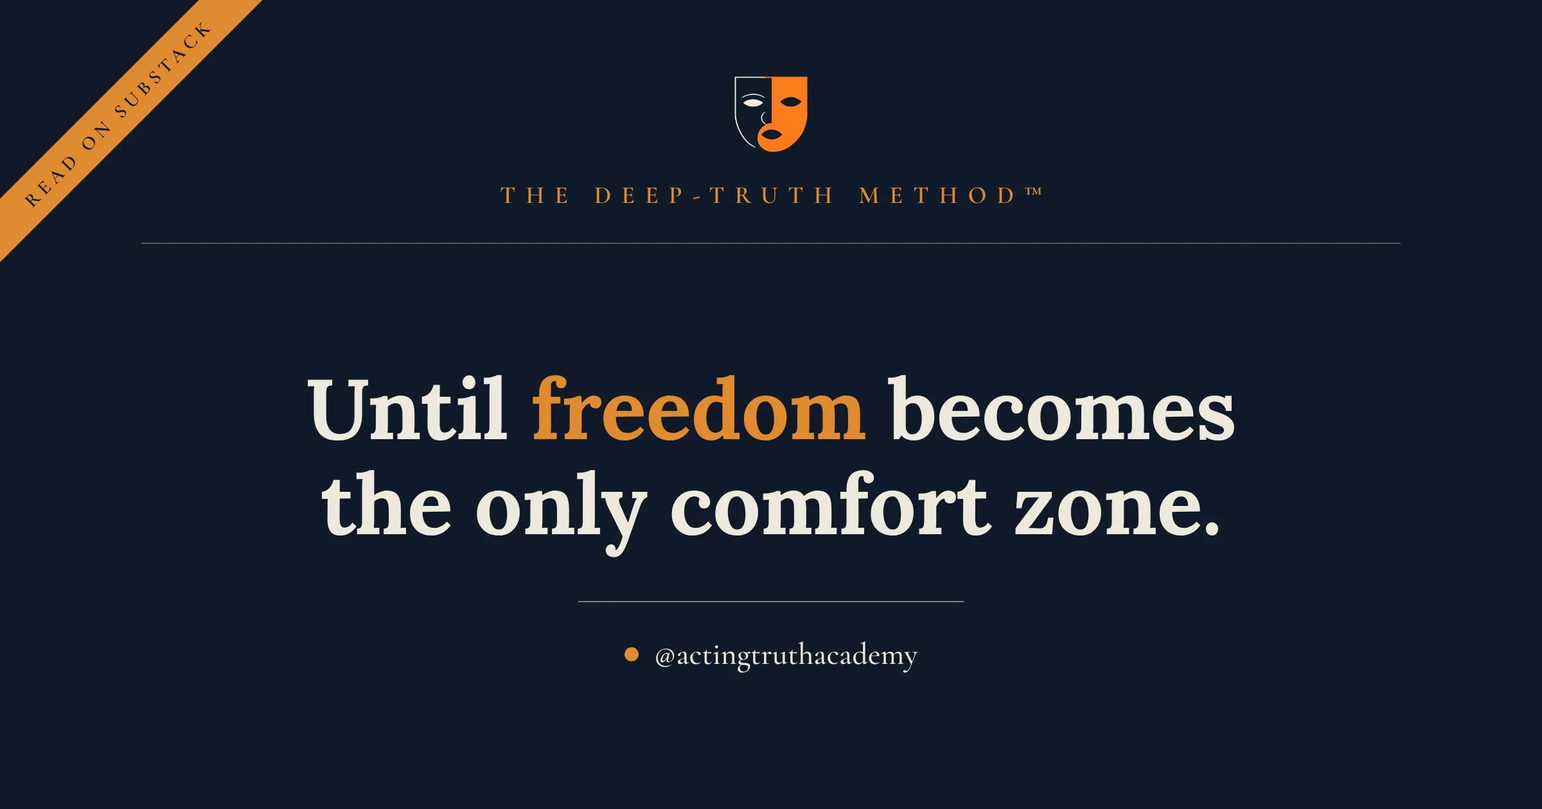
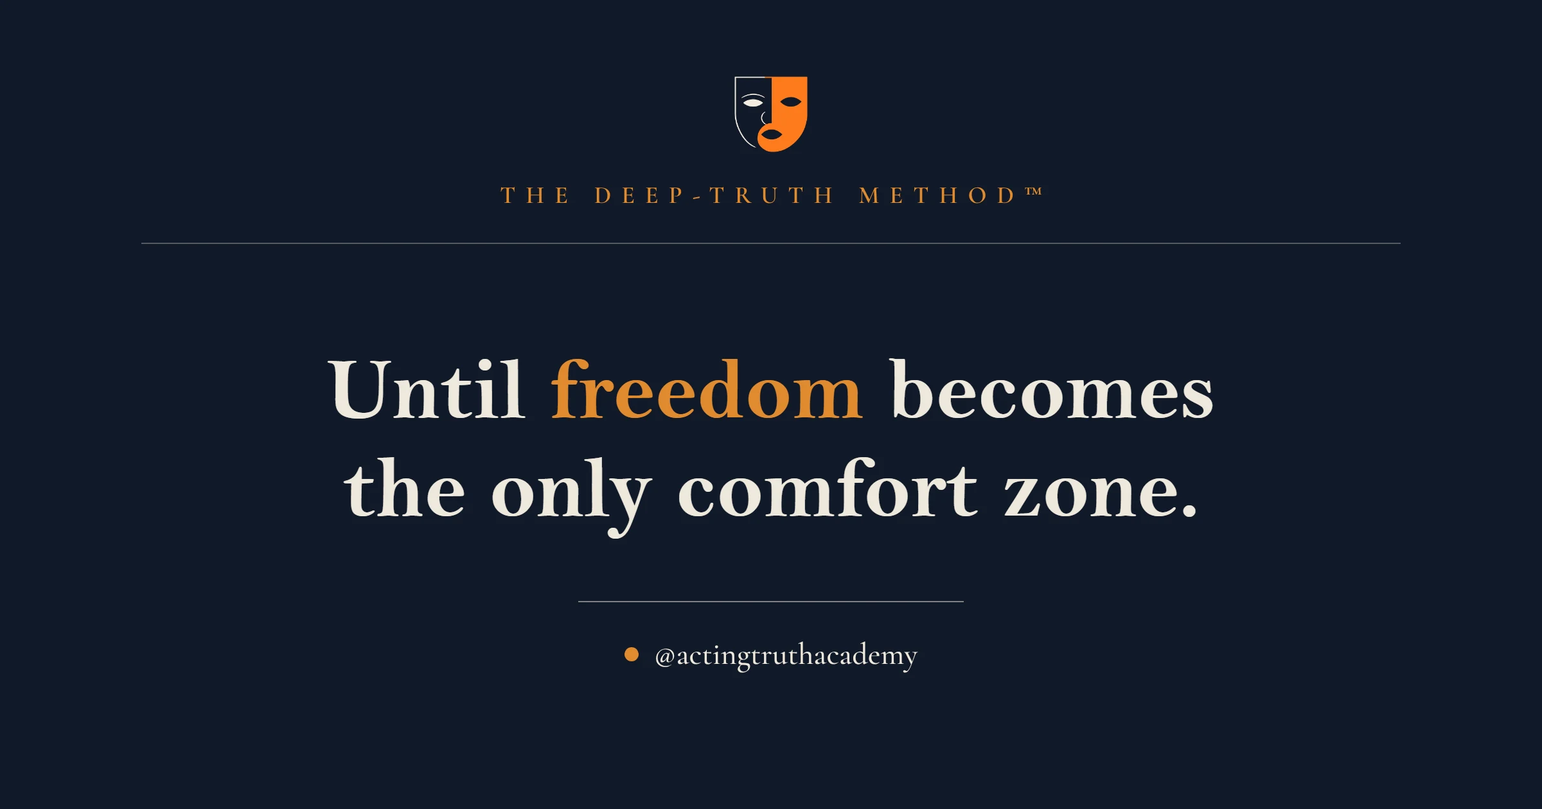
Keep Escape Shop, add Shelter as case 03; ATA thumb in Bell MT Bold
- Escape Shop restored as 01 (in progress).
- Shelter Concept Store added as 03, between Wedding Dance Vows and
  Flaouer Hub, in Shelter's own black / off-white / signal red so the
  orange-to-yellow run is broken. Flaouer, Mermaid, ATA renumbered 04-06.
- Text sides re-alternated across all six cases.
- ATA site thumbnail: corner ribbon removed, headline set in Bell MT Bold.

Claude-Session: https://claude.ai/code/session_012GeCtdrrnYPBhRqYrmdrxu

Changed region(s): [[0.1875, 0.4333, 0.8125, 0.681], [0.0, 0.0, 0.1875, 0.3095]]

diff --git a/el/index.html b/el/index.html
@@ -316,9 +316,9 @@
     },
     {
       "@type": "CreativeWork",
-      "@id": "https://sourwater.space/el/#shelter-concept-store",
-      "name": "Shelter Concept Store",
-      "description": "Ένα concept store επιλεγμένης μόδας χωρίς e-shop, και χωρίς σκοπό να φτιάξει. Γι' αυτό χτίσαμε το site γύρω από την ιδιοκτήτρια: η Μερόπη δοκιμάζει τα ρούχα, το site σε στέλνει στα DM της και το Instagram κάνει το ταμείο.",
+      "@id": "https://sourwater.space/el/#escape-shop",
+      "name": "Escape Shop",
+      "description": "Ένα μαγαζί για ψάρεμα κυπρίνου και γλυκών νερών, με ολόκληρο e-shop... που όμως κανείς δεν έβρισκε. Οπότε φτιάξαμε τον λόγο να το βρουν: έναν οδηγό λιμνών που κερδίζει την αναζήτηση, και μετά δίνει στον αναγνώστη τον ακριβή εξοπλισμό για αγορά.",
       "inLanguage": "el",
       "creator": {
         "@id": "https://sourwater.space/#org"
@@ -332,12 +332,11 @@
           "addressCountry": "GR"
         }
       },
-      "url": "https://sourwater.space/el/#shelter-concept-store",
-      "sameAs": "https://shelterconceptstore.gr/",
+      "url": "https://sourwater.space/el/#escape-shop",
       "keywords": [
         "Σχεδιασμός ιστοσελίδας",
         "SEO / GEO",
-        "Πωλήσεις μέσω Instagram"
+        "Οδηγοί λιμνών"
       ]
     },
     {
@@ -363,6 +362,32 @@
         "Reels",
         "Στρατηγική περιεχομένου",
         "Funnel online μαθήματος"
+      ]
+    },
+    {
+      "@type": "CreativeWork",
+      "@id": "https://sourwater.space/el/#shelter-concept-store",
+      "name": "Shelter Concept Store",
+      "description": "Ένα concept store επιλεγμένης μόδας χωρίς e-shop, και χωρίς σκοπό να φτιάξει. Γι' αυτό χτίσαμε το site γύρω από την ιδιοκτήτρια: η Μερόπη δοκιμάζει τα ρούχα, το site σε στέλνει στα DM της και το Instagram κάνει το ταμείο.",
+      "inLanguage": "el",
+      "creator": {
+        "@id": "https://sourwater.space/#org"
+      },
+      "locationCreated": {
+        "@type": "Place",
+        "name": "Karditsa",
+        "address": {
+          "@type": "PostalAddress",
+          "addressLocality": "Karditsa",
+          "addressCountry": "GR"
+        }
+      },
+      "url": "https://sourwater.space/el/#shelter-concept-store",
+      "sameAs": "https://shelterconceptstore.gr/",
+      "keywords": [
+        "Σχεδιασμός ιστοσελίδας",
+        "SEO / GEO",
+        "Πωλήσεις μέσω Instagram"
       ]
     },
     {
@@ -594,6 +619,8 @@
   .grid{display:grid;grid-template-columns:1.02fr 1fr;gap:56px;align-items:center}
   .band.flip .txt{order:2}
   @media(max-width:920px){.grid{grid-template-columns:1fr}.band.flip .txt{order:0}}
+  /* Mermaid's images come first in the markup; keep its text on the left so the six cases alternate. */
+  @media(min-width:921px){#mermaid-experience .txt{order:-1}}
   .band p.lead{color:var(--fg);opacity:.92}
   .band blockquote{margin:26px 0 0;padding-left:22px;border-left:2px solid var(--accent);
     font-family:'Fraunces','Spectral';font-style:italic;font-size:clamp(18px,1.9vw,25px)}
@@ -608,8 +635,10 @@
 
 
 
+  .escape-shop .tag{color:var(--fg)}
+  .escape-shop .btn{color:var(--ink)}
   .shelter .tag{color:var(--fg)}
-  .shelter .btn{color:var(--ink)}
+  .shelter .btn{color:#0B0B0A}
 
   /* ATA: essay banner above two slightly overlapping portrait posts. */
   #acting-truth-academy .ata-collage .ata-banner{width:100%;top:0;left:0;transform:none;outline:1px solid rgba(239,233,220,.18);z-index:3}
@@ -1001,22 +1030,22 @@
   <h2 class="disp" id="work-title">Επιλεγμένες δουλειές</h2>
 </div></section>
 
-<!-- SHELTER CONCEPT STORE -->
-<section id="shelter-concept-store" aria-labelledby="shelter-concept-store-title" class="band shelter" style="--bg:#3A2A35;--fg:#F1E8DF;--accent:#C9A3C4"><div class="wrap">
+<!-- ESCAPE SHOP -->
+<section id="escape-shop" aria-labelledby="escape-shop-title" class="band escape-shop" style="--bg:#2F4A5A;--fg:#EDE7D6;--accent:#CBA24B"><div class="wrap">
   <div class="head">
-    <div class="mark">SC</div>
-    <div class="meta"><div class="kick">01 · Καρδίτσα, Ελλάδα · Σε εξέλιξη</div><h2 class="disp" id="shelter-concept-store-title">Shelter Concept Store</h2></div>
+    <div class="mark">ES</div>
+    <div class="meta"><div class="kick">01 · Καρδίτσα, Ελλάδα · Σε εξέλιξη</div><h2 class="disp" id="escape-shop-title">Escape Shop</h2></div>
   </div>
   <div class="grid">
     <div class="txt">
-      <p class="lead">Ένα concept store επιλεγμένης μόδας χωρίς e-shop, και χωρίς σκοπό να φτιάξει. Γι' αυτό χτίσαμε το site γύρω από την ιδιοκτήτρια: η Μερόπη δοκιμάζει τα ρούχα, το site σε στέλνει στα DM της και το Instagram κάνει το ταμείο.</p>
-      <div class="tags"><span class="tag">Σχεδιασμός ιστοσελίδας</span><span class="tag">SEO / GEO</span><span class="tag">Πωλήσεις μέσω Instagram</span></div>
-      <a class="btn" href="https://shelterconceptstore.gr/gr" target="_blank" rel="noopener">Δείτε το live site</a>
+      <p class="lead">Ένα μαγαζί για ψάρεμα κυπρίνου και γλυκών νερών, με ολόκληρο e-shop... που όμως κανείς δεν έβρισκε. Οπότε φτιάξαμε τον λόγο να το βρουν: έναν οδηγό λιμνών που κερδίζει την αναζήτηση, και μετά δίνει στον αναγνώστη τον ακριβή εξοπλισμό για αγορά.</p>
+      <div class="tags"><span class="tag">Σχεδιασμός ιστοσελίδας</span><span class="tag">SEO / GEO</span><span class="tag">Οδηγοί λιμνών</span></div>
+      <a class="btn" href="https://escapeshop-gr.labrakex.workers.dev/" target="_blank" rel="noopener">Δείτε το live e-shop</a>
     </div>
     <div class="col" style="aspect-ratio:auto">
       <div class="browser">
         <div class="bar"><i></i><i></i><i></i></div>
-        <div class="frame"><iframe src="https://shelterconceptstore.gr/gr" title="Ζωντανή προεπισκόπηση του site του Shelter Concept Store" loading="lazy"></iframe></div>
+        <div class="frame"><iframe src="https://escapeshop-gr.labrakex.workers.dev/" title="Ζωντανή προεπισκόπηση του e-shop ψαρέματος Escape Shop" loading="lazy"></iframe></div>
       </div>
     </div>
   </div>
@@ -1041,11 +1070,32 @@
   </div>
 </div></section>
 
+<!-- SHELTER CONCEPT STORE -->
+<section id="shelter-concept-store" aria-labelledby="shelter-concept-store-title" class="band shelter" style="--bg:#0B0B0A;--fg:#F1EFE8;--accent:#F23A25"><div class="wrap">
+  <div class="head">
+    <div class="mark">SC</div>
+    <div class="meta"><div class="kick">03 · Καρδίτσα, Ελλάδα · Σε εξέλιξη</div><h2 class="disp" id="shelter-concept-store-title">Shelter Concept Store</h2></div>
+  </div>
+  <div class="grid">
+    <div class="txt">
+      <p class="lead">Ένα concept store επιλεγμένης μόδας χωρίς e-shop, και χωρίς σκοπό να φτιάξει. Γι' αυτό χτίσαμε το site γύρω από την ιδιοκτήτρια: η Μερόπη δοκιμάζει τα ρούχα, το site σε στέλνει στα DM της και το Instagram κάνει το ταμείο.</p>
+      <div class="tags"><span class="tag">Σχεδιασμός ιστοσελίδας</span><span class="tag">SEO / GEO</span><span class="tag">Πωλήσεις μέσω Instagram</span></div>
+      <a class="btn" href="https://shelterconceptstore.gr/gr" target="_blank" rel="noopener">Δείτε το live site</a>
+    </div>
+    <div class="col" style="aspect-ratio:auto">
+      <div class="browser">
+        <div class="bar"><i></i><i></i><i></i></div>
+        <div class="frame"><iframe src="https://shelterconceptstore.gr/gr" title="Ζωντανή προεπισκόπηση του site του Shelter Concept Store" loading="lazy" tabindex="-1"></iframe></div>
+      </div>
+    </div>
+  </div>
+</div></section>
+
 <!-- FLAOUER -->
-<section id="flaouer-hub" aria-labelledby="flaouer-hub-title" class="band" style="--bg:#E3B23E;--fg:#3A1C1E;--accent:#7A2230"><div class="wrap">
+<section id="flaouer-hub" aria-labelledby="flaouer-hub-title" class="band flip" style="--bg:#E3B23E;--fg:#3A1C1E;--accent:#7A2230"><div class="wrap">
   <div class="head">
     <img src="/assets/logo_flaouer.png" alt="Flaouer Hub" width="1056" height="960" loading="lazy" decoding="async">
-    <div class="meta"><div class="kick">03 · Αθήνα, Ελλάδα</div><h2 class="disp" id="flaouer-hub-title">Flaouer Hub</h2></div>
+    <div class="meta"><div class="kick">04 · Αθήνα, Ελλάδα</div><h2 class="disp" id="flaouer-hub-title">Flaouer Hub</h2></div>
   </div>
   <div class="grid">
     <div class="txt">
@@ -1069,10 +1119,10 @@
 
 <!-- MERMAID -->
 <span class="legacy-anchor" id="mermaid" aria-hidden="true"></span>
-<section id="mermaid-experience" aria-labelledby="mermaid-experience-title" class="band flip" style="--bg:#DCE7DE;--fg:#173B3A;--accent:#2E7C77"><div class="wrap">
+<section id="mermaid-experience" aria-labelledby="mermaid-experience-title" class="band" style="--bg:#DCE7DE;--fg:#173B3A;--accent:#2E7C77"><div class="wrap">
   <div class="head">
     <img src="/assets/logo_mermaid.jpg" alt="Become a Mermaid" style="border-radius:4px;height:96px" width="1080" height="1350" loading="lazy" decoding="async">
-    <div class="meta"><div class="kick">04 · Αθήνα, Ελλάδα</div><h2 class="disp" id="mermaid-experience-title">Mermaid Experience</h2></div>
+    <div class="meta"><div class="kick">05 · Αθήνα, Ελλάδα</div><h2 class="disp" id="mermaid-experience-title">Mermaid Experience</h2></div>
   </div>
   <div class="grid">
     <div class="col">
@@ -1099,10 +1149,10 @@
 </div></section>
 
 <!-- ATA -->
-<section id="acting-truth-academy" aria-labelledby="acting-truth-academy-title" class="band" style="--bg:#162938;--fg:#EDE7DA;--accent:#E0902E"><div class="wrap">
+<section id="acting-truth-academy" aria-labelledby="acting-truth-academy-title" class="band flip" style="--bg:#162938;--fg:#EDE7DA;--accent:#E0902E"><div class="wrap">
   <div class="head">
     <img src="/assets/logo_aca-lockup-transparent.png" alt="Acting Truth Academy" width="1800" height="1012" loading="lazy" decoding="async">
-    <div class="meta"><div class="kick">05 · Ναυαρχίδα · Εκδόσεις &amp; Παιδαγωγική</div><h2 class="disp" id="acting-truth-academy-title">Acting Truth Academy</h2></div>
+    <div class="meta"><div class="kick">06 · Ναυαρχίδα · Εκδόσεις &amp; Παιδαγωγική</div><h2 class="disp" id="acting-truth-academy-title">Acting Truth Academy</h2></div>
   </div>
   <div class="grid">
     <div class="txt">
@@ -1118,7 +1168,7 @@
   <div style="margin-top:60px">
     <a class="browser" href="https://actingtruthacademy.com/" target="_blank" rel="noopener" aria-label="Επισκεφθείτε το site της Acting Truth Academy" style="display:block;text-decoration:none">
       <div class="bar"><i></i><i></i><i></i><span style="margin-left:8px;color:#51483f;font-size:11px">actingtruthacademy.com ↗</span></div>
-      <img src="/assets/ata/ata-site-thumb.webp" alt="Κάρτα της Acting Truth Academy στο ύφος του Substack της Deep-Truth Method: Until freedom becomes the only comfort zone." style="display:block;width:100%;height:auto" width="1200" height="630" loading="lazy" decoding="async">
+      <img src="/assets/ata/ata-site-thumb.webp" alt="Κάρτα της Acting Truth Academy στο ύφος της Deep-Truth Method: Until freedom becomes the only comfort zone." style="display:block;width:100%;height:auto" width="1200" height="630" loading="lazy" decoding="async">
     </a>
     <div style="text-align:center;margin-top:22px"><a class="btn" href="https://actingtruthacademy.com/" target="_blank" rel="noopener">Δείτε το live site</a></div>
   </div>

diff --git a/index.html b/index.html
@@ -316,9 +316,9 @@
     },
     {
       "@type": "CreativeWork",
-      "@id": "https://sourwater.space/#shelter-concept-store",
-      "name": "Shelter Concept Store",
-      "description": "A curated fashion boutique with no e-shop and no plan for one. So we built the site around the owner instead: Meropi tries the clothes on, the site sends you to her DMs, and Instagram does the checkout.",
+      "@id": "https://sourwater.space/#escape-shop",
+      "name": "Escape Shop",
+      "description": "A carp and freshwater fishing shop with a full e-shop and no reason for anyone to find it. So we built the reason: a lake fishing guide that earns the search, then hands the reader the exact gear to buy.",
       "inLanguage": "en",
       "creator": {
         "@id": "https://sourwater.space/#org"
@@ -332,12 +332,11 @@
           "addressCountry": "GR"
         }
       },
-      "url": "https://sourwater.space/#shelter-concept-store",
-      "sameAs": "https://shelterconceptstore.gr/",
+      "url": "https://sourwater.space/#escape-shop",
       "keywords": [
         "Website design",
         "SEO / GEO",
-        "Instagram-first commerce"
+        "Lake guides"
       ]
     },
     {
@@ -363,6 +362,32 @@
         "Reels",
         "Content strategy",
         "Online course funnel"
+      ]
+    },
+    {
+      "@type": "CreativeWork",
+      "@id": "https://sourwater.space/#shelter-concept-store",
+      "name": "Shelter Concept Store",
+      "description": "A curated fashion boutique with no e-shop and no plan for one. So we built the site around the owner instead: Meropi tries the clothes on, the site sends you to her DMs, and Instagram does the checkout.",
+      "inLanguage": "en",
+      "creator": {
+        "@id": "https://sourwater.space/#org"
+      },
+      "locationCreated": {
+        "@type": "Place",
+        "name": "Karditsa",
+        "address": {
+          "@type": "PostalAddress",
+          "addressLocality": "Karditsa",
+          "addressCountry": "GR"
+        }
+      },
+      "url": "https://sourwater.space/#shelter-concept-store",
+      "sameAs": "https://shelterconceptstore.gr/",
+      "keywords": [
+        "Website design",
+        "SEO / GEO",
+        "Instagram-first commerce"
       ]
     },
     {
@@ -593,6 +618,8 @@
   .grid{display:grid;grid-template-columns:1.02fr 1fr;gap:56px;align-items:center}
   .band.flip .txt{order:2}
   @media(max-width:920px){.grid{grid-template-columns:1fr}.band.flip .txt{order:0}}
+  /* Mermaid's images come first in the markup; keep its text on the left so the six cases alternate. */
+  @media(min-width:921px){#mermaid-experience .txt{order:-1}}
   .band p.lead{color:var(--fg);opacity:.92}
   .band blockquote{margin:26px 0 0;padding-left:22px;border-left:2px solid var(--accent);
     font-family:'Fraunces';font-style:italic;font-size:clamp(18px,1.9vw,25px)}
@@ -607,8 +634,10 @@
 
 
 
+  .escape-shop .tag{color:var(--fg)}
+  .escape-shop .btn{color:var(--ink)}
   .shelter .tag{color:var(--fg)}
-  .shelter .btn{color:var(--ink)}
+  .shelter .btn{color:#0B0B0A}
 
   /* ATA: essay banner above two slightly overlapping portrait posts. */
   #acting-truth-academy .ata-collage .ata-banner{width:100%;top:0;left:0;transform:none;outline:1px solid rgba(239,233,220,.18);z-index:3}
@@ -1003,22 +1032,22 @@
   <h2 class="disp" id="work-title">Selected work</h2>
 </div></section>
 
-<!-- SHELTER CONCEPT STORE, plum and lilac, website design case -->
-<section id="shelter-concept-store" aria-labelledby="shelter-concept-store-title" class="band shelter" style="--bg:#3A2A35;--fg:#F1E8DF;--accent:#C9A3C4"><div class="wrap">
+<!-- ESCAPE SHOP, lake-green palette, website design case -->
+<section id="escape-shop" aria-labelledby="escape-shop-title" class="band escape-shop" style="--bg:#2F4A5A;--fg:#EDE7D6;--accent:#CBA24B"><div class="wrap">
   <div class="head">
-    <div class="mark">SC</div>
-    <div class="meta"><div class="kick">01 · Karditsa, Greece · In progress</div><h2 class="disp" id="shelter-concept-store-title">Shelter Concept Store</h2></div>
+    <div class="mark">ES</div>
+    <div class="meta"><div class="kick">01 · Karditsa, Greece · In progress</div><h2 class="disp" id="escape-shop-title">Escape Shop</h2></div>
   </div>
   <div class="grid">
     <div class="txt">
-      <p class="lead">A curated fashion boutique with no e-shop and no plan for one. So we built the site around the owner instead: Meropi tries the clothes on, the site sends you to her DMs, and Instagram does the checkout.</p>
-      <div class="tags"><span class="tag">Website design</span><span class="tag">SEO / GEO</span><span class="tag">Instagram-first commerce</span></div>
-      <a class="btn" href="https://shelterconceptstore.gr/" target="_blank" rel="noopener">View the live site</a>
+      <p class="lead">A carp and freshwater fishing shop with a full e-shop and no reason for anyone to find it. So we built the reason: a lake fishing guide that earns the search, then hands the reader the exact gear to buy.</p>
+      <div class="tags"><span class="tag">Website design</span><span class="tag">SEO / GEO</span><span class="tag">Lake guides</span></div>
+      <a class="btn" href="https://escapeshop-gr.labrakex.workers.dev/" target="_blank" rel="noopener">View live e-shop</a>
     </div>
     <div class="col" style="aspect-ratio:auto">
       <div class="browser">
         <div class="bar"><i></i><i></i><i></i></div>
-        <div class="frame"><iframe src="https://shelterconceptstore.gr/" title="Shelter Concept Store live site preview" loading="lazy"></iframe></div>
+        <div class="frame"><iframe src="https://escapeshop-gr.labrakex.workers.dev/" title="Escape Shop lake-fishing e-shop live preview" loading="lazy"></iframe></div>
       </div>
     </div>
   </div>
@@ -1043,11 +1072,32 @@
   </div>
 </div></section>
 
+<!-- SHELTER CONCEPT STORE, its own black, off-white and signal red; breaks the orange/yellow run -->
+<section id="shelter-concept-store" aria-labelledby="shelter-concept-store-title" class="band shelter" style="--bg:#0B0B0A;--fg:#F1EFE8;--accent:#F23A25"><div class="wrap">
+  <div class="head">
+    <div class="mark">SC</div>
+    <div class="meta"><div class="kick">03 · Karditsa, Greece · In progress</div><h2 class="disp" id="shelter-concept-store-title">Shelter Concept Store</h2></div>
+  </div>
+  <div class="grid">
+    <div class="txt">
+      <p class="lead">A curated fashion boutique with no e-shop and no plan for one. So we built the site around the owner instead: Meropi tries the clothes on, the site sends you to her DMs, and Instagram does the checkout.</p>
+      <div class="tags"><span class="tag">Website design</span><span class="tag">SEO / GEO</span><span class="tag">Instagram-first commerce</span></div>
+      <a class="btn" href="https://shelterconceptstore.gr/" target="_blank" rel="noopener">View the live site</a>
+    </div>
+    <div class="col" style="aspect-ratio:auto">
+      <div class="browser">
+        <div class="bar"><i></i><i></i><i></i></div>
+        <div class="frame"><iframe src="https://shelterconceptstore.gr/" title="Shelter Concept Store live site preview" loading="lazy" tabindex="-1"></iframe></div>
+      </div>
+    </div>
+  </div>
+</div></section>
+
 <!-- FLAOUER, warm ochre/maroon palette -->
-<section id="flaouer-hub" aria-labelledby="flaouer-hub-title" class="band" style="--bg:#E3B23E;--fg:#3A1C1E;--accent:#7A2230"><div class="wrap">
+<section id="flaouer-hub" aria-labelledby="flaouer-hub-title" class="band flip" style="--bg:#E3B23E;--fg:#3A1C1E;--accent:#7A2230"><div class="wrap">
   <div class="head">
     <img src="/assets/logo_flaouer.png" alt="Flaouer Hub logo" width="1056" height="960" loading="lazy" decoding="async">
-    <div class="meta"><div class="kick">03 · Athens, GR</div><h2 class="disp" id="flaouer-hub-title">Flaouer Hub</h2></div>
+    <div class="meta"><div class="kick">04 · Athens, GR</div><h2 class="disp" id="flaouer-hub-title">Flaouer Hub</h2></div>
   </div>
   <div class="grid">
     <div class="txt">
@@ -1071,10 +1121,10 @@
 
 <!-- MERMAID, sea + sand palette -->
 <span class="legacy-anchor" id="mermaid" aria-hidden="true"></span>
-<section id="mermaid-experience" aria-labelledby="mermaid-experience-title" class="band flip" style="--bg:#DCE7DE;--fg:#173B3A;--accent:#2E7C77"><div class="wrap">
+<section id="mermaid-experience" aria-labelledby="mermaid-experience-title" class="band" style="--bg:#DCE7DE;--fg:#173B3A;--accent:#2E7C77"><div class="wrap">
   <div class="head">
     <img src="/assets/logo_mermaid.jpg" alt="Become a Mermaid logo for Mermaid Experience" style="border-radius:4px;height:96px" width="1080" height="1350" loading="lazy" decoding="async">
-    <div class="meta"><div class="kick">04 · Athens, GR</div><h2 class="disp" id="mermaid-experience-title">Mermaid Experience</h2></div>
+    <div class="meta"><div class="kick">05 · Athens, GR</div><h2 class="disp" id="mermaid-experience-title">Mermaid Experience</h2></div>
   </div>
   <div class="grid">
     <div class="col">
@@ -1101,10 +1151,10 @@
 </div></section>
 
 <!-- ATA, deep blue, real ATA assets (no name) -->
-<section id="acting-truth-academy" aria-labelledby="acting-truth-academy-title" class="band" style="--bg:#162938;--fg:#EDE7DA;--accent:#E0902E"><div class="wrap">
+<section id="acting-truth-academy" aria-labelledby="acting-truth-academy-title" class="band flip" style="--bg:#162938;--fg:#EDE7DA;--accent:#E0902E"><div class="wrap">
   <div class="head">
     <img src="/assets/logo_aca-lockup-transparent.png" alt="Acting Truth Academy logo" width="1800" height="1012" loading="lazy" decoding="async">
-    <div class="meta"><div class="kick">05 · Flagship · Publishing &amp; Pedagogy</div><h2 class="disp" id="acting-truth-academy-title">Acting Truth Academy</h2></div>
+    <div class="meta"><div class="kick">06 · Flagship · Publishing &amp; Pedagogy</div><h2 class="disp" id="acting-truth-academy-title">Acting Truth Academy</h2></div>
   </div>
   <div class="grid">
     <div class="txt">
@@ -1120,7 +1170,7 @@
   <div style="margin-top:60px">
     <a class="browser" href="https://actingtruthacademy.com/" target="_blank" rel="noopener" aria-label="Visit the Acting Truth Academy website" style="display:block;text-decoration:none">
       <div class="bar"><i></i><i></i><i></i><span style="margin-left:8px;color:#51483f;font-size:11px">actingtruthacademy.com ↗</span></div>
-      <img src="/assets/ata/ata-site-thumb.webp" alt="Acting Truth Academy card in the Deep-Truth Method Substack style: Until freedom becomes the only comfort zone." style="display:block;width:100%;height:auto" width="1200" height="630" loading="lazy" decoding="async">
+      <img src="/assets/ata/ata-site-thumb.webp" alt="Acting Truth Academy card in the Deep-Truth Method style: Until freedom becomes the only comfort zone." style="display:block;width:100%;height:auto" width="1200" height="630" loading="lazy" decoding="async">
     </a>
     <div style="text-align:center;margin-top:22px"><a class="btn" href="https://actingtruthacademy.com/" target="_blank" rel="noopener">View the live site</a></div>
   </div>
